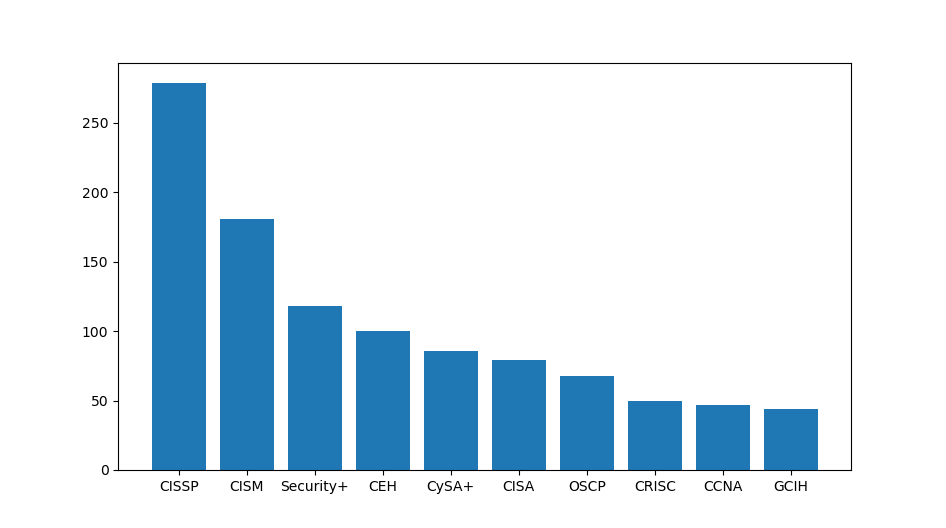
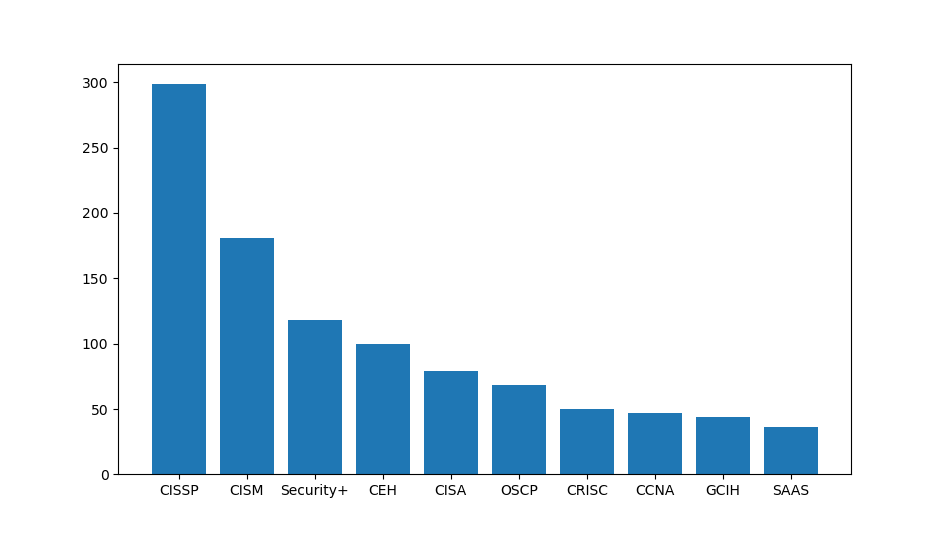
Update rules and style

diff --git a/extract.py b/extract.py
@@ -9,25 +9,162 @@ jobs = pd.read_csv(sys.argv[1])
 number_of_jobs = len(jobs)
 print(f"Processing {number_of_jobs} entries...")
 counts = dict()
-blacklist = ["SIEM", "NIST", "HMRC", "GDPR", "FTSE", "MHCLG", "CSOC", "STEM", "CISO", "EUSS", "ISMS", "DBSC", "ASOS", "NCSC", "DORA", "STRAP", "CREST", "KINTO", "UBDS", "GIAC", "KPMG", "CHECK", "IDEAL", "WILL", "FULL", "COST", "CEMA", "SAST", "DAST", "SANS", "FREE", "MITRE", "OWASP", "CSPM", "EMSOU", "CSIRT", "DFIR", "MSSP", "DHCP", "JCKP", "IASME", "ITIL", "ITSM", "CE+", "CODE", "PHIA", "CERT", "REST", "SOAP", "LGBTQ", "TPRM", "SOAR", "CFGI", "OSINT", "RAND", "GCSE", "TPDD", "EMEA", "ASDA", "APPLY", "NATO", "FMLA", "USAF", "MADSS", "HIPAA", "EPPA", "AFMAN", "AFIN", "STEP", "HBSS", "DISA", "STIG", "CSSP", "MACCE", "HTTP", "NOTE", "ACAS", "CMMC", "NERC", "MUST", "USMC", "RKON", "SPAC", "SMADS", "CJIS", "MAJOR", "CCPA", "CIAM", "CNSSI", "PGTEK", "FISMA", "MTAC", "WITH", "DFAS", "AFSIM", "LEVEL", "SAML", "COBIT", "ISACA", "SCADA", "HIDS", "EQUAL", "JANUS", "JWICS", "ISSO", "IAVM", "DFARS", "NIPR", "FAIR", "TVFCU", "SCAP", "SDLC", "KAIT", "BAIT", "ESMA", "ITAR", "SAIC", "ISSM", "eMASS"]
+blacklist = [
+    "SIEM",
+    "NIST",
+    "HMRC",
+    "GDPR",
+    "FTSE",
+    "MHCLG",
+    "CSOC",
+    "STEM",
+    "CISO",
+    "EUSS",
+    "ISMS",
+    "DBSC",
+    "ASOS",
+    "NCSC",
+    "DORA",
+    "STRAP",
+    "CREST",
+    "KINTO",
+    "UBDS",
+    "GIAC",
+    "KPMG",
+    "CHECK",
+    "IDEAL",
+    "WILL",
+    "FULL",
+    "COST",
+    "CEMA",
+    "SAST",
+    "DAST",
+    "SANS",
+    "FREE",
+    "MITRE",
+    "OWASP",
+    "CSPM",
+    "EMSOU",
+    "CSIRT",
+    "DFIR",
+    "MSSP",
+    "DHCP",
+    "JCKP",
+    "IASME",
+    "ITIL",
+    "ITSM",
+    "CE+",
+    "CODE",
+    "PHIA",
+    "CERT",
+    "REST",
+    "SOAP",
+    "LGBTQ",
+    "TPRM",
+    "SOAR",
+    "CFGI",
+    "OSINT",
+    "RAND",
+    "GCSE",
+    "TPDD",
+    "EMEA",
+    "ASDA",
+    "APPLY",
+    "NATO",
+    "FMLA",
+    "USAF",
+    "MADSS",
+    "HIPAA",
+    "EPPA",
+    "AFMAN",
+    "AFIN",
+    "STEP",
+    "HBSS",
+    "DISA",
+    "STIG",
+    "CSSP",
+    "MACCE",
+    "HTTP",
+    "NOTE",
+    "ACAS",
+    "CMMC",
+    "NERC",
+    "MUST",
+    "USMC",
+    "RKON",
+    "SPAC",
+    "SMADS",
+    "CJIS",
+    "MAJOR",
+    "CCPA",
+    "CIAM",
+    "CNSSI",
+    "PGTEK",
+    "FISMA",
+    "MTAC",
+    "WITH",
+    "DFAS",
+    "AFSIM",
+    "LEVEL",
+    "SAML",
+    "COBIT",
+    "ISACA",
+    "SCADA",
+    "HIDS",
+    "EQUAL",
+    "JANUS",
+    "JWICS",
+    "ISSO",
+    "IAVM",
+    "DFARS",
+    "NIPR",
+    "FAIR",
+    "TVFCU",
+    "SCAP",
+    "SDLC",
+    "KAIT",
+    "BAIT",
+    "ESMA",
+    "ITAR",
+    "SAIC",
+    "ISSM",
+    "eMASS",
+    "SALAR",
+    "WORKI",
+    "LNKD",
+    "SSDLC",
+    "TITLE",
+    "HOURS",
+    "POPI",
+    "PAIA",
+    "EXPN",
+    "WORK",
+    "CASB",
+    "FINRA",
+    "USFS",
+    "RAMP",
+]
+
 
 def add_count(to_add, dictionary):
-   dictionary[to_add] = dictionary.get(to_add, 0) + 1
+    dictionary[to_add] = dictionary.get(to_add, 0) + 1
+
 
 def extract_and_count(row):
-    
-    to_match = r"\b[A-Z]{4,5}\b|(?<=[a-z])[A-Z]{4,5}|[A-Z][a-z]+?\+|\b[A-Z]{2}\b-\b[0-9]{3}\b|\be[A-Z].*?\b|CEH|CCE|CAP|EnCE|CFR|GSE|CRT"
+
+    to_match = r"CASP\+|\b[A-Z]{4,5}\b|(?<=[a-z])[A-Z]{4,5}|[A-Z][a-z]+?\+|\b[A-Z]{2}\b-\b[0-9]{3}\b|\be[A-Z].*?\b|CEH|CCE|CAP|EnCE|CFR|GSE|CRT|CND"
     found = re.findall(to_match, str(row["text"]))
 
     for i in found:
         add_count(i, counts)
 
-jobs.apply(extract_and_count, axis = 1)
+
+jobs.apply(extract_and_count, axis=1)
 
 # a lot of posters use Sec+ instead of the actual name
-if 'Sec+' in counts:
-    counts['Security+'] += counts['Sec+']
-    counts.pop('Sec+', None)
+if "Sec+" in counts:
+    counts["Security+"] += counts["Sec+"]
+    counts.pop("Sec+", None)
 
 for i in blacklist:
     counts.pop(i, None)
@@ -43,6 +180,6 @@ for i in to_clean:
 counts = dict(sorted(counts.items(), key=lambda item: item[1], reverse=True))
 print(counts)
 
-plt.bar(range(10), list(counts.values())[:10], align='center')
+plt.bar(range(10), list(counts.values())[:10], align="center")
 plt.xticks(range(10), list(counts.keys())[:10])
 plt.show()

diff --git a/scrape.py b/scrape.py
@@ -7,47 +7,64 @@ import math
 import pandas as pd
 
 # enter your search parameters here
-target='https://www.linkedin.com/jobs-guest/jobs/api/seeMoreJobPostings/search?keywords=cyber&location=United%20States&geoId=103644278&start={}'
+target = "https://www.linkedin.com/jobs-guest/jobs/api/seeMoreJobPostings/search?keywords=cyber&location=United%20States&geoId=103644278&start={}"
 o = {}
 k = []
 l = []
 
 # change ceil(???/25) to the number of job listings
-for i in range(0,math.ceil(8000/25)):
+for i in range(0, math.ceil(8000 / 25)):
     res = requests.get(target.format(i))
-    soup = BeautifulSoup(res.text,'html.parser')
+    soup = BeautifulSoup(res.text, "html.parser")
     jobs_on_page = soup.find_all("li")
 
     for x in range(0, len(jobs_on_page)):
-        jobid = jobs_on_page[x].find("div",{"class":"base-card"}).get('data-entity-urn').split(":")[3]
+        jobid = (
+            jobs_on_page[x]
+            .find("div", {"class": "base-card"})
+            .get("data-entity-urn")
+            .split(":")[3]
+        )
         l.append(jobid)
 
 print("Finished gathering job IDs, now requesting job postings...")
 
-target='https://www.linkedin.com/jobs-guest/jobs/api/jobPosting/{}'
-for j in range(0,len(l)):
+target = "https://www.linkedin.com/jobs-guest/jobs/api/jobPosting/{}"
+for j in range(0, len(l)):
 
     resp = requests.get(target.format(l[j]))
-    soup=BeautifulSoup(resp.text,'html.parser')
+    soup = BeautifulSoup(resp.text, "html.parser")
 
     try:
-        o["company"]=soup.find("div",{"class":"top-card-layout__card"}).find("a").find("img").get('alt')
+        o["company"] = (
+            soup.find("div", {"class": "top-card-layout__card"})
+            .find("a")
+            .find("img")
+            .get("alt")
+        )
     except:
-        o["company"]=None
+        o["company"] = None
 
     try:
-        o["job-title"]=soup.find("div",{"class":"top-card-layout__entity-info"}).find("a").text.strip()
+        o["job-title"] = (
+            soup.find("div", {"class": "top-card-layout__entity-info"})
+            .find("a")
+            .text.strip()
+        )
     except:
-        o["job-title"]=None
+        o["job-title"] = None
 
     try:
-        o["text"]=soup.find("section",{"class":"show-more-less-html"}).find("div").text.strip()
+        o["text"] = (
+            soup.find("section", {"class": "show-more-less-html"})
+            .find("div")
+            .text.strip()
+        )
     except:
-        o["text"]=None
+        o["text"] = None
 
-    
     k.append(o)
-    o={}
+    o = {}
 
 df = pd.DataFrame(k)
-df.to_csv('jobs.csv', index=False, encoding='utf-8')
+df.to_csv("jobs.csv", index=False, encoding="utf-8")

diff --git a/README.md b/README.md
@@ -7,12 +7,11 @@ Searching for 'cyber' jobs in the United Kingdom.
 ![Graph containing Top 10 most common certifications for september 2025 in the UK](./graphs/september_2025_uk.png)
 
 The raw values are:
-{'CISSP': 279, 'CISM': 181, 'Security+': 118, 'CEH': 100, 'CySA+': 86, 'CISA': 79, 'OSCP': 68, 'CRISC': 50, 'CCNA': 47, 'GCIH': 44, 'GCFE': 34, 'CRT': 32, 'CCSP': 31, 'CPSA': 30, 'Cloud+': 29, 'CISMP': 29, 'GCFA': 28, 'GCIA': 24, 'ECSA': 24, 'GPEN': 23, 'ECIH': 22, 'GREM': 19, 'GNFA': 19}
+{'CISSP': 299, 'CISM': 181, 'Security+': 118, 'CEH': 100, 'CISA': 79, 'OSCP': 68, 'CRISC': 50, 'CCNA': 47, 'GCIH': 44, 'SAAS': 36, 'GCFE': 34, 'CRT': 32, 'CCSP': 31, 'CPSA': 30, 'Cloud+': 29, 'CISMP': 29, 'GCFA': 28, 'GCIA': 24, 'ECSA': 24, 'GPEN': 23, 'ECIH': 22, 'SCCM': 20, 'GREM': 19, 'GNFA': 19}
 
 Searching for 'cyber' jobs in the United States.
 
 ![Graph containing Top 10 most common certifications for september 2025 in the USA](./graphs/september_2025_usa.png)
 
 The raw values are:
-{'Security+': 749, 'CISSP': 668, 'CISA': 332, 'CISM': 321, 'CEH': 256, 'CySA+': 243, 'GSEC': 174, 'CCSP': 172, 'GCIH': 146, 'CCNA': 126, 'SSCP': 122, 'CRISC': 101, 'GCFA': 98, 'GCIA': 95, 'OSCP': 94, 'CAP': 81, 'GNFA': 77, 'Cloud+': 71, 'GICSP': 57, 'Network+': 53, 'CCNP': 51, 'GMON': 50, 'CASP': 46, 'GREM': 44, 'GCED': 43, 'SC-200': 41, 'GCFE': 40}
-
+{'Security+': 786, 'CISSP': 722, 'CISA': 332, 'CISM': 321, 'CEH': 256, 'GSEC': 174, 'CCSP': 172, 'GCIH': 146, 'CCNA': 126, 'SSCP': 122, 'CRISC': 101, 'GCFA': 98, 'GCIA': 95, 'OSCP': 94, 'CAP': 81, 'GNFA': 77, 'Cloud+': 71, 'GICSP': 57, 'Network+': 53, 'CND': 52, 'CCNP': 51, 'GMON': 50, 'GREM': 44, 'GCED': 43, 'SC-200': 41, 'GCFE': 40, 'CASP+': 35}
